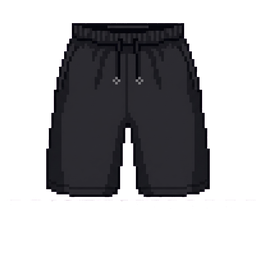
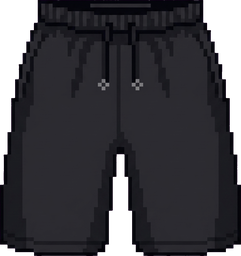
fix(thumb): 기본 흰티/반바지 썸네일 - 하단 체크무늬 잔상 제거 + 버뮤다와 같은 꽉찬 프레이밍

diff --git a/index.html b/index.html
@@ -2104,7 +2104,7 @@ window.CHAR_ITEMS = [
   // { id: 'hat_f_ladodgers', slot: 'hat', body: 'human_f', name: 'LA 볼캡', price: 0, sheet: 'char/items/hat_f_ladodgers.png', thumb: 'char/items/hat_ladodgers_thumb.png', hairVariants: { hair_f_basic: null, hair_f_bob_bang: null, hair_f_long: null } }
 ];
 // 아이템 이미지 캐시버전 — 아이템 시트/썸네일 바꿀 때마다 올리면 SW 캐시 무시하고 새로 받음
-window._ITEM_V = 104;
+window._ITEM_V = 105;
 window._iv = function (u) { return u ? (u + (u.indexOf('?') < 0 ? '?v=' : '&v=') + (window._ITEM_V || 1)) : u; };
 window.CHAR_FREE = ['hair_short', 'top_tee', 'mask_simple'];
 window.CHAR_SHAPES = {
@@ -7667,7 +7667,7 @@ document.getElementById('create-crew-panel').querySelector('.back-btn').addEvent
 
 // ===== 서비스 워커 등록 (PWA 홈화면 설치) =====
 // ★배포할 때 sw.js 의 murpy-vNNN 과 **같은 숫자로** 올릴 것. 이게 CDN 캐시를 깬다.
-window._SW_V = '345';
+window._SW_V = '346';
 // 마이페이지 하단 앱 정보에 현재 버전 표시
 try {
   window.addEventListener('load', function () {

diff --git a/tools/asset-studio/retouch.html b/tools/asset-studio/retouch.html
@@ -276,7 +276,7 @@ const ITEMS=[
  {id:'hat_beanie',slot:'hat',body:'human',name:'GBD 비니'},
  {id:'hat_ladodgers',slot:'hat',body:'human',name:'LA 볼캡'},
  {id:'acc_airpodsmax',slot:'acc',body:'human',name:'에어팟 맥스'},
- {id:'top_redhood',slot:'top',body:'human',name:'레드 후디'},
+ {id:'top_basic_tee',slot:'top',body:'human',name:'★기본 흰티 (남)'},\n {id:'top_f_basic_tee',slot:'top',body:'human_f',name:'★기본 흰티 (여)'},\n {id:'bottom_basic_shorts',slot:'bottom',body:'human',name:'★기본 반바지 (남)'},\n {id:'bottom_f_basic_shorts',slot:'bottom',body:'human_f',name:'★기본 반바지 (여)'},\n {id:'top_redhood',slot:'top',body:'human',name:'레드 후디'},
  {id:'top_ringer',slot:'top',body:'human',name:'ART 링거티'},
  {id:'bottom_bermuda',slot:'bottom',body:'human',name:'회색 버뮤다'},
  {id:'bottom_trainpt',slot:'bottom',body:'human',name:'검정 트레이닝'},

diff --git a/sw.js b/sw.js
@@ -1,7 +1,7 @@
 // 배포마다 이 버전을 올려야 자동 새버전 적용(새로고침)이 동작함
-const CACHE_NAME = 'murpy-v345';
-const STATIC_CACHE = 'murpy-static-v345';
-const CDN_CACHE = 'murpy-cdn-v345';
+const CACHE_NAME = 'murpy-v346';
+const STATIC_CACHE = 'murpy-static-v346';
+const CDN_CACHE = 'murpy-cdn-v346';
 // 이미지 캐시는 버전 안 붙임 → 코드/HTML 배포해도 유지(URL이 곧 버전)
 const IMG_CACHE = 'murpy-img';
 
